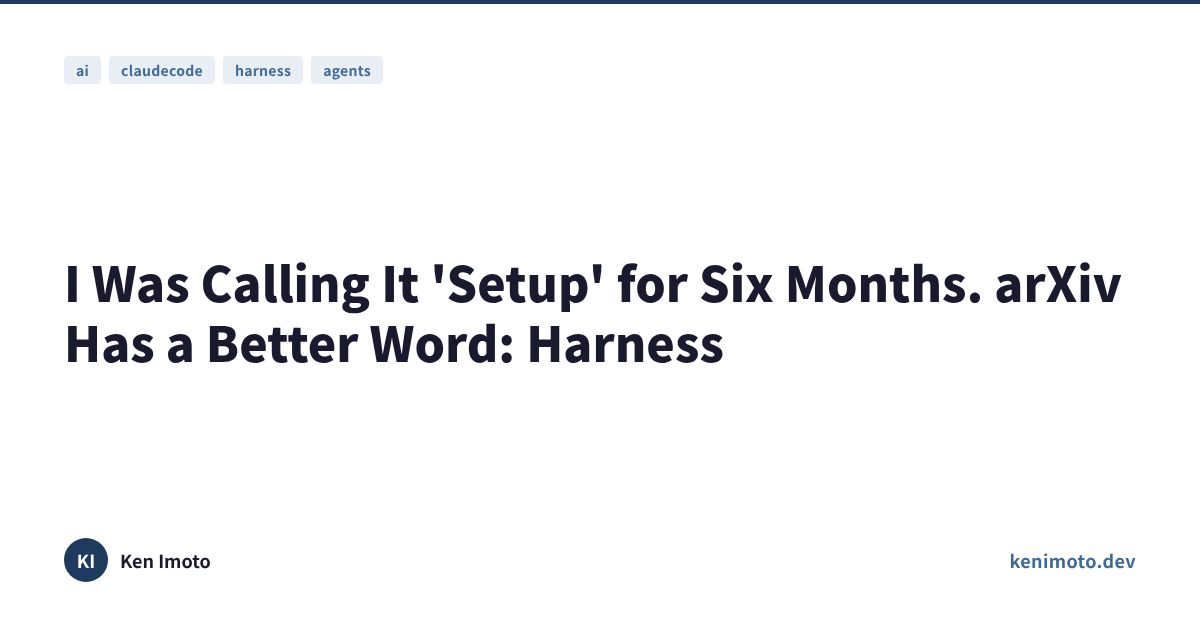
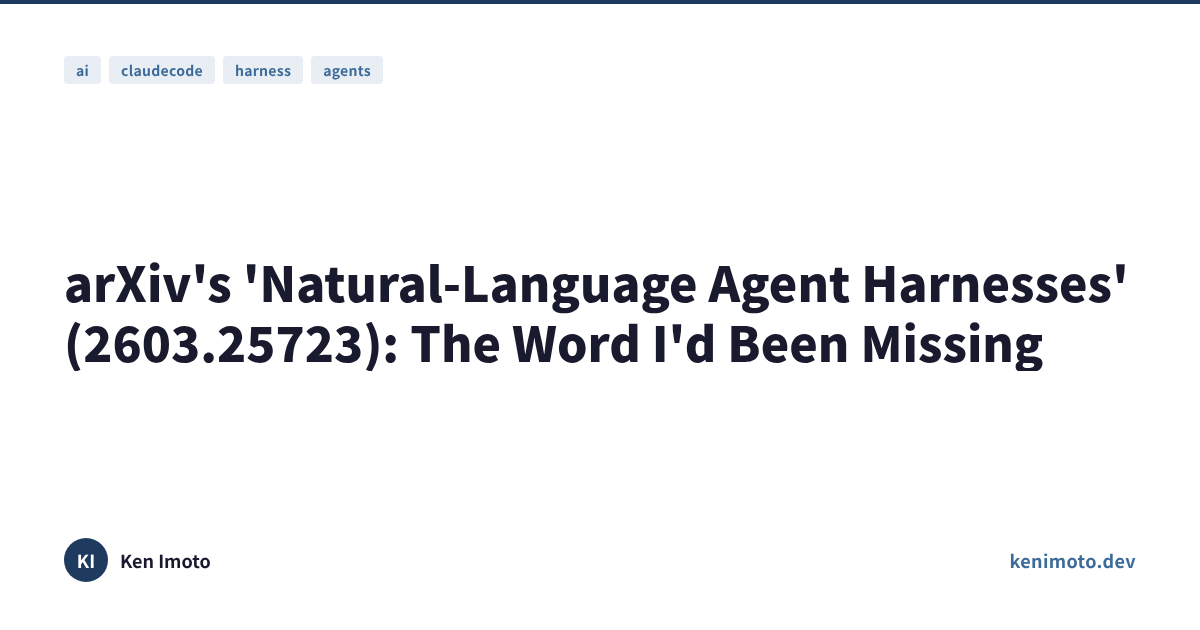
feat(og): og_image 未設定の blog 記事9本にOG画像を生成・設定
汎用 og-image.png に落ちていた記事 (EN5本/JA4本) を
grep -L og_image で特定し、tools/generate-og-images.mjs で
1200×630 のOG画像を生成して frontmatter に og_image を設定。

EN: five-ai-search-engines-architecture-llmo, measure-ai-citations-llmo-kpi,
    og-type-double-emit-three-astro-sites, new-domain-first-week-ga4-is-a-lie,
    natural-language-agent-harnesses-arxiv
JA: claude-code-hooks-v2-25-events, claude-code-sub-agent-design,
    ai-agent-cost-structure-breakeven, llmo-measurement-3-methods

生成画像は視覚チェック済み (タイトル収まり・タグ・日本語フォントOK)。
build pass、未設定記事は 0 本に。

Changed region(s): [[0.0308, 0.4222, 0.9558, 0.6032]]

diff --git a/src/content/blog/en/five-ai-search-engines-architecture-llmo.md b/src/content/blog/en/five-ai-search-engines-architecture-llmo.md
@@ -3,6 +3,7 @@ title: "One Question, Five AI Search Engines, Five Different Answers"
 description: "I asked five AI search engines the same question. The answers were all different. Here's how each platform decides what gets cited, and what you can do about it."
 date: 2026-05-03
 lang: en
+og_image: "https://kenimoto.dev/images/blog/five-ai-search-engines-architecture-llmo/og.png"
 tags: [llmo, ai-search, seo, architecture, content-strategy]
 featured: false
 canonical_url: "https://kenimoto.dev/blog/five-ai-search-engines-architecture-llmo/"

diff --git a/src/content/blog/en/measure-ai-citations-llmo-kpi.md b/src/content/blog/en/measure-ai-citations-llmo-kpi.md
@@ -3,6 +3,7 @@ title: "Is AI Actually Citing Your Site? How to Measure What Google Rankings Can
 description: "Nothing tracks whether AI is citing your site. Here's how to measure LLMO visibility with GA4, Python scripts, and a 30-minute monthly protocol."
 date: 2026-05-02
 lang: en
+og_image: "https://kenimoto.dev/images/blog/measure-ai-citations-llmo-kpi/og.png"
 tags: [llmo, ai-search, seo, measurement, analytics]
 featured: false
 canonical_url: "https://kenimoto.dev/blog/measure-ai-citations-llmo-kpi/"

diff --git a/src/content/blog/en/natural-language-agent-harnesses-arxiv.md b/src/content/blog/en/natural-language-agent-harnesses-arxiv.md
@@ -3,6 +3,7 @@ title: "arXiv's 'Natural-Language Agent Harnesses' (2603.25723): The Word I'd Be
 description: "A plain-English read of the arXiv paper 'Natural-Language Agent Harnesses' (2603.25723): what the term means, how it reframed the 'setup' I'd built all year, and why the vocabulary upgrade made my team meetings 30% shorter."
 date: 2026-05-06
 lang: en
+og_image: "https://kenimoto.dev/images/blog/natural-language-agent-harnesses-arxiv/og.png"
 tags: [ai, claudecode, harness, agents]
 featured: false
 canonical_url: "https://kenimoto.dev/blog/natural-language-agent-harnesses-arxiv/"

diff --git a/src/content/blog/en/new-domain-first-week-ga4-is-a-lie.md b/src/content/blog/en/new-domain-first-week-ga4-is-a-lie.md
@@ -3,6 +3,7 @@ title: "Your New Domain's First Week of GA4 Is a Lie: 4 Days of Raw Data from ka
 description: "Four days after registering a new domain, GA4 showed 65 PV / 34 users across 9 countries. Before celebrating, I beat the data with 5 signals. What survived: a handful of humans, and a tireless army of crawlers."
 date: 2026-05-05
 lang: en
+og_image: "https://kenimoto.dev/images/blog/new-domain-first-week-ga4-is-a-lie/og.png"
 tags: [ga4, analytics, llmo, build-in-public, bot-traffic]
 featured: false
 canonical_url: "https://kenimoto.dev/blog/new-domain-first-week-ga4-is-a-lie/"

diff --git a/src/content/blog/en/og-type-double-emit-three-astro-sites.md b/src/content/blog/en/og-type-double-emit-three-astro-sites.md
@@ -3,6 +3,7 @@ title: "The og:type Bug Three of My Astro Sites Quietly Shipped"
 description: "I run four Astro sites. Three of them shipped the same SEO bug for months — every blog post told Twitter, Facebook, and LinkedIn it was a website, not an article. Here is what happened, why I did not catch it sooner, and the build-time check that would have caught it on day one."
 date: 2026-05-08
 lang: en
+og_image: "https://kenimoto.dev/images/blog/og-type-double-emit-three-astro-sites/og.png"
 tags: [astro, seo, webdev, ai]
 featured: false
 canonical_url: "https://kenimoto.dev/blog/og-type-double-emit-three-astro-sites/"

diff --git a/src/content/blog/ja/ai-agent-cost-structure-breakeven.md b/src/content/blog/ja/ai-agent-cost-structure-breakeven.md
@@ -3,6 +3,7 @@ title: "AIエージェントは月いくらかかるのか -- API・サブスク
 description: "AIエージェントのコストを3類型（API従量課金・サブスクリプション・ローカルLLM）で整理し、2026年5月時点の料金で損益分岐点を計算した。"
 date: 2026-05-03
 lang: ja
+og_image: "https://kenimoto.dev/images/blog/ai-agent-cost-structure-breakeven/og-ja.png"
 tags: [ai-agent, cost, claude-code, local-llm, api]
 featured: false
 canonical_url: "https://kenimoto.dev/ja/blog/ai-agent-cost-structure-breakeven/"